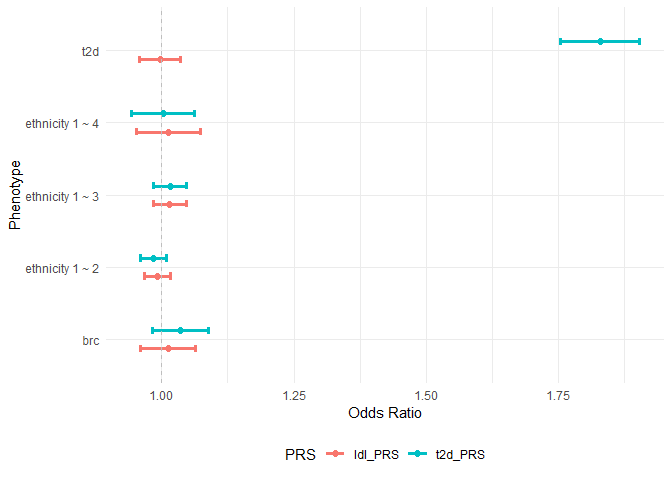
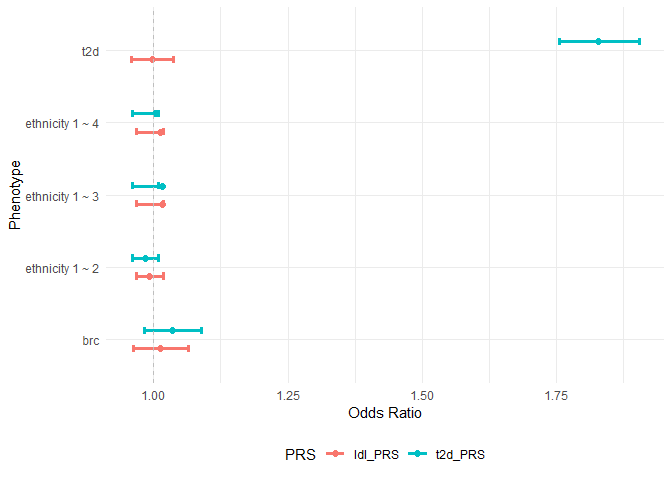
updated README

diff --git a/README.md b/README.md
@@ -58,9 +58,9 @@ dataset <- comorbidData
 result_1 <- assoc(dataset, prs_col = "t2d_PRS", phenotype_col = "t2d")
 ```
 
-| PRS     | Phenotype | Phenotype_type | Statistical_method         | Covar | N_cases | N_controls |     N |   Effect |        SE | lower_CI | upper_CI | P_value |
-|:--------|:----------|:---------------|:---------------------------|:------|--------:|-----------:|------:|---------:|----------:|---------:|---------:|--------:|
-| t2d_PRS | t2d       | Cases/Controls | Binary logistic regression | NA    |    2845 |      36535 | 39380 | 1.784127 | 0.0361516 | 1.713269 | 1.854984 |       0 |
+| PRS     | Phenotype | Phenotype_type | Statistical_method         | Covar | N_cases | N_controls |     N |   Effect | SE  | lower_CI | upper_CI | P_value |
+|:--------|:----------|:---------------|:---------------------------|:------|--------:|-----------:|------:|---------:|:----|---------:|---------:|--------:|
+| t2d_PRS | t2d       | Cases/Controls | Binary logistic regression | NA    |    2845 |      36535 | 39380 | 1.784127 | NA  | 1.714658 |  1.85641 |       0 |
 
 ``` r
 # do multiple associations
@@ -75,20 +75,20 @@ result_2 <- multiassoc(df = dataset, assoc_table = assoc, covar = c("age", "sex"
 
 |     | PRS     | Phenotype        | Phenotype_type      | Statistical_method              | Covar             | N_cases | N_controls |     N |    Effect |        SE |  lower_CI |  upper_CI |   P_value |
 |:----|:--------|:-----------------|:--------------------|:--------------------------------|:------------------|--------:|-----------:|------:|----------:|----------:|----------:|----------:|----------:|
-| 2   | t2d_PRS | ethnicity 1 \~ 2 | Categorical         | Multinomial logistic regression | age+sex+gen_array |    8526 |      24922 | 33448 | 0.9843528 | 0.0123519 | 0.9601431 | 1.0085625 | 0.2088171 |
-| 3   | t2d_PRS | ethnicity 1 \~ 3 | Categorical         | Multinomial logistic regression | age+sex+gen_array |    4779 |      24922 | 29701 | 1.0161173 | 0.0160508 | 0.9846577 | 1.0475769 | 0.3114462 |
-| 4   | t2d_PRS | ethnicity 1 \~ 4 | Categorical         | Multinomial logistic regression | age+sex+gen_array |    1153 |      24922 | 26075 | 1.0026245 | 0.0302145 | 0.9434041 | 1.0618450 | 0.9306895 |
-| 21  | ldl_PRS | ethnicity 1 \~ 2 | Categorical         | Multinomial logistic regression | age+sex+gen_array |    8526 |      24922 | 33448 | 0.9925562 | 0.0124481 | 0.9681579 | 1.0169545 | 0.5513399 |
-| 31  | ldl_PRS | ethnicity 1 \~ 3 | Categorical         | Multinomial logistic regression | age+sex+gen_array |    4779 |      24922 | 29701 | 1.0152907 | 0.0160504 | 0.9838319 | 1.0467496 | 0.3370977 |
-| 41  | ldl_PRS | ethnicity 1 \~ 4 | Categorical         | Multinomial logistic regression | age+sex+gen_array |    1153 |      24922 | 26075 | 1.0128078 | 0.0305442 | 0.9529412 | 1.0726745 | 0.6730281 |
-| 1   | t2d_PRS | brc              | Cases/Controls      | Binary logistic regression      | age+sex+gen_array |    1601 |      19867 | 21468 | 1.0348337 | 0.0269738 | 0.9819652 | 1.0877023 | 0.1889709 |
-| 11  | ldl_PRS | brc              | Cases/Controls      | Binary logistic regression      | age+sex+gen_array |    1601 |      19867 | 21468 | 1.0119061 | 0.0263690 | 0.9602229 | 1.0635893 | 0.6496868 |
-| 12  | t2d_PRS | t2d              | Cases/Controls      | Binary logistic regression      | age+sex+gen_array |    2845 |      36535 | 39380 | 1.8286147 | 0.0379141 | 1.7543029 | 1.9029264 | 0.0000000 |
-| 13  | ldl_PRS | t2d              | Cases/Controls      | Binary logistic regression      | age+sex+gen_array |    2845 |      36535 | 39380 | 0.9968686 | 0.0196053 | 0.9584422 | 1.0352951 | 0.8732979 |
+| 2   | t2d_PRS | ethnicity 1 \~ 2 | Categorical         | Multinomial logistic regression | age+sex+gen_array |    8526 |      24922 | 33448 | 0.9843528 |        NA | 0.9604383 | 1.0088627 | 0.2088171 |
+| 3   | t2d_PRS | ethnicity 1 \~ 3 | Categorical         | Multinomial logistic regression | age+sex+gen_array |    4779 |      24922 | 29701 | 1.0161173 |        NA | 0.9604383 | 1.0088627 | 0.3114462 |
+| 4   | t2d_PRS | ethnicity 1 \~ 4 | Categorical         | Multinomial logistic regression | age+sex+gen_array |    1153 |      24922 | 26075 | 1.0026245 |        NA | 0.9604383 | 1.0088627 | 0.9306895 |
+| 21  | ldl_PRS | ethnicity 1 \~ 2 | Categorical         | Multinomial logistic regression | age+sex+gen_array |    8526 |      24922 | 33448 | 0.9925562 |        NA | 0.9684554 | 1.0172569 | 0.5513399 |
+| 31  | ldl_PRS | ethnicity 1 \~ 3 | Categorical         | Multinomial logistic regression | age+sex+gen_array |    4779 |      24922 | 29701 | 1.0152907 |        NA | 0.9684554 | 1.0172569 | 0.3370977 |
+| 41  | ldl_PRS | ethnicity 1 \~ 4 | Categorical         | Multinomial logistic regression | age+sex+gen_array |    1153 |      24922 | 26075 | 1.0128078 |        NA | 0.9684554 | 1.0172569 | 0.6730281 |
+| 1   | t2d_PRS | brc              | Cases/Controls      | Binary logistic regression      | age+sex+gen_array |    1601 |      19867 | 21468 | 1.0348337 |        NA | 0.9832930 | 1.0890761 | 0.1889709 |
+| 11  | ldl_PRS | brc              | Cases/Controls      | Binary logistic regression      | age+sex+gen_array |    1601 |      19867 | 21468 | 1.0119061 |        NA | 0.9615206 | 1.0649319 | 0.6496868 |
+| 12  | t2d_PRS | t2d              | Cases/Controls      | Binary logistic regression      | age+sex+gen_array |    2845 |      36535 | 39380 | 1.8286147 |        NA | 1.7557926 | 1.9044570 | 0.0000000 |
+| 13  | ldl_PRS | t2d              | Cases/Controls      | Binary logistic regression      | age+sex+gen_array |    2845 |      36535 | 39380 | 0.9968686 |        NA | 0.9591734 | 1.0360453 | 0.8732979 |
 | 14  | t2d_PRS | log_ldl          | Continuous          | Linear regression               | age+sex+gen_array |      NA |         NA | 39380 | 0.0036203 | 0.0011515 | 0.0013633 | 0.0058773 | 0.0016686 |
 | 15  | ldl_PRS | log_ldl          | Continuous          | Linear regression               | age+sex+gen_array |      NA |         NA | 39380 | 0.0843551 | 0.0010703 | 0.0822574 | 0.0864529 | 0.0000000 |
-| 16  | t2d_PRS | sbp_cat          | Ordered Categorical | Ordinal logistic regression     | age+sex+gen_array |      NA |         NA | 39380 | 1.0757027 | 0.0013520 | 1.0730528 | 1.0783526 | 0.0000000 |
-| 17  | ldl_PRS | sbp_cat          | Ordered Categorical | Ordinal logistic regression     | age+sex+gen_array |      NA |         NA | 39380 | 1.0754824 | 0.0013510 | 1.0728345 | 1.0781303 | 0.0000000 |
+| 16  | t2d_PRS | sbp_cat          | Ordered Categorical | Ordinal logistic regression     | age+sex+gen_array |      NA |         NA | 39380 | 1.0757027 |        NA | 1.0730560 | 1.0783558 | 0.0000000 |
+| 17  | ldl_PRS | sbp_cat          | Ordered Categorical | Ordinal logistic regression     | age+sex+gen_array |      NA |         NA | 39380 | 1.0754824 |        NA | 1.0728378 | 1.0781336 | 0.0000000 |
 
 ### Examples of plot
 
